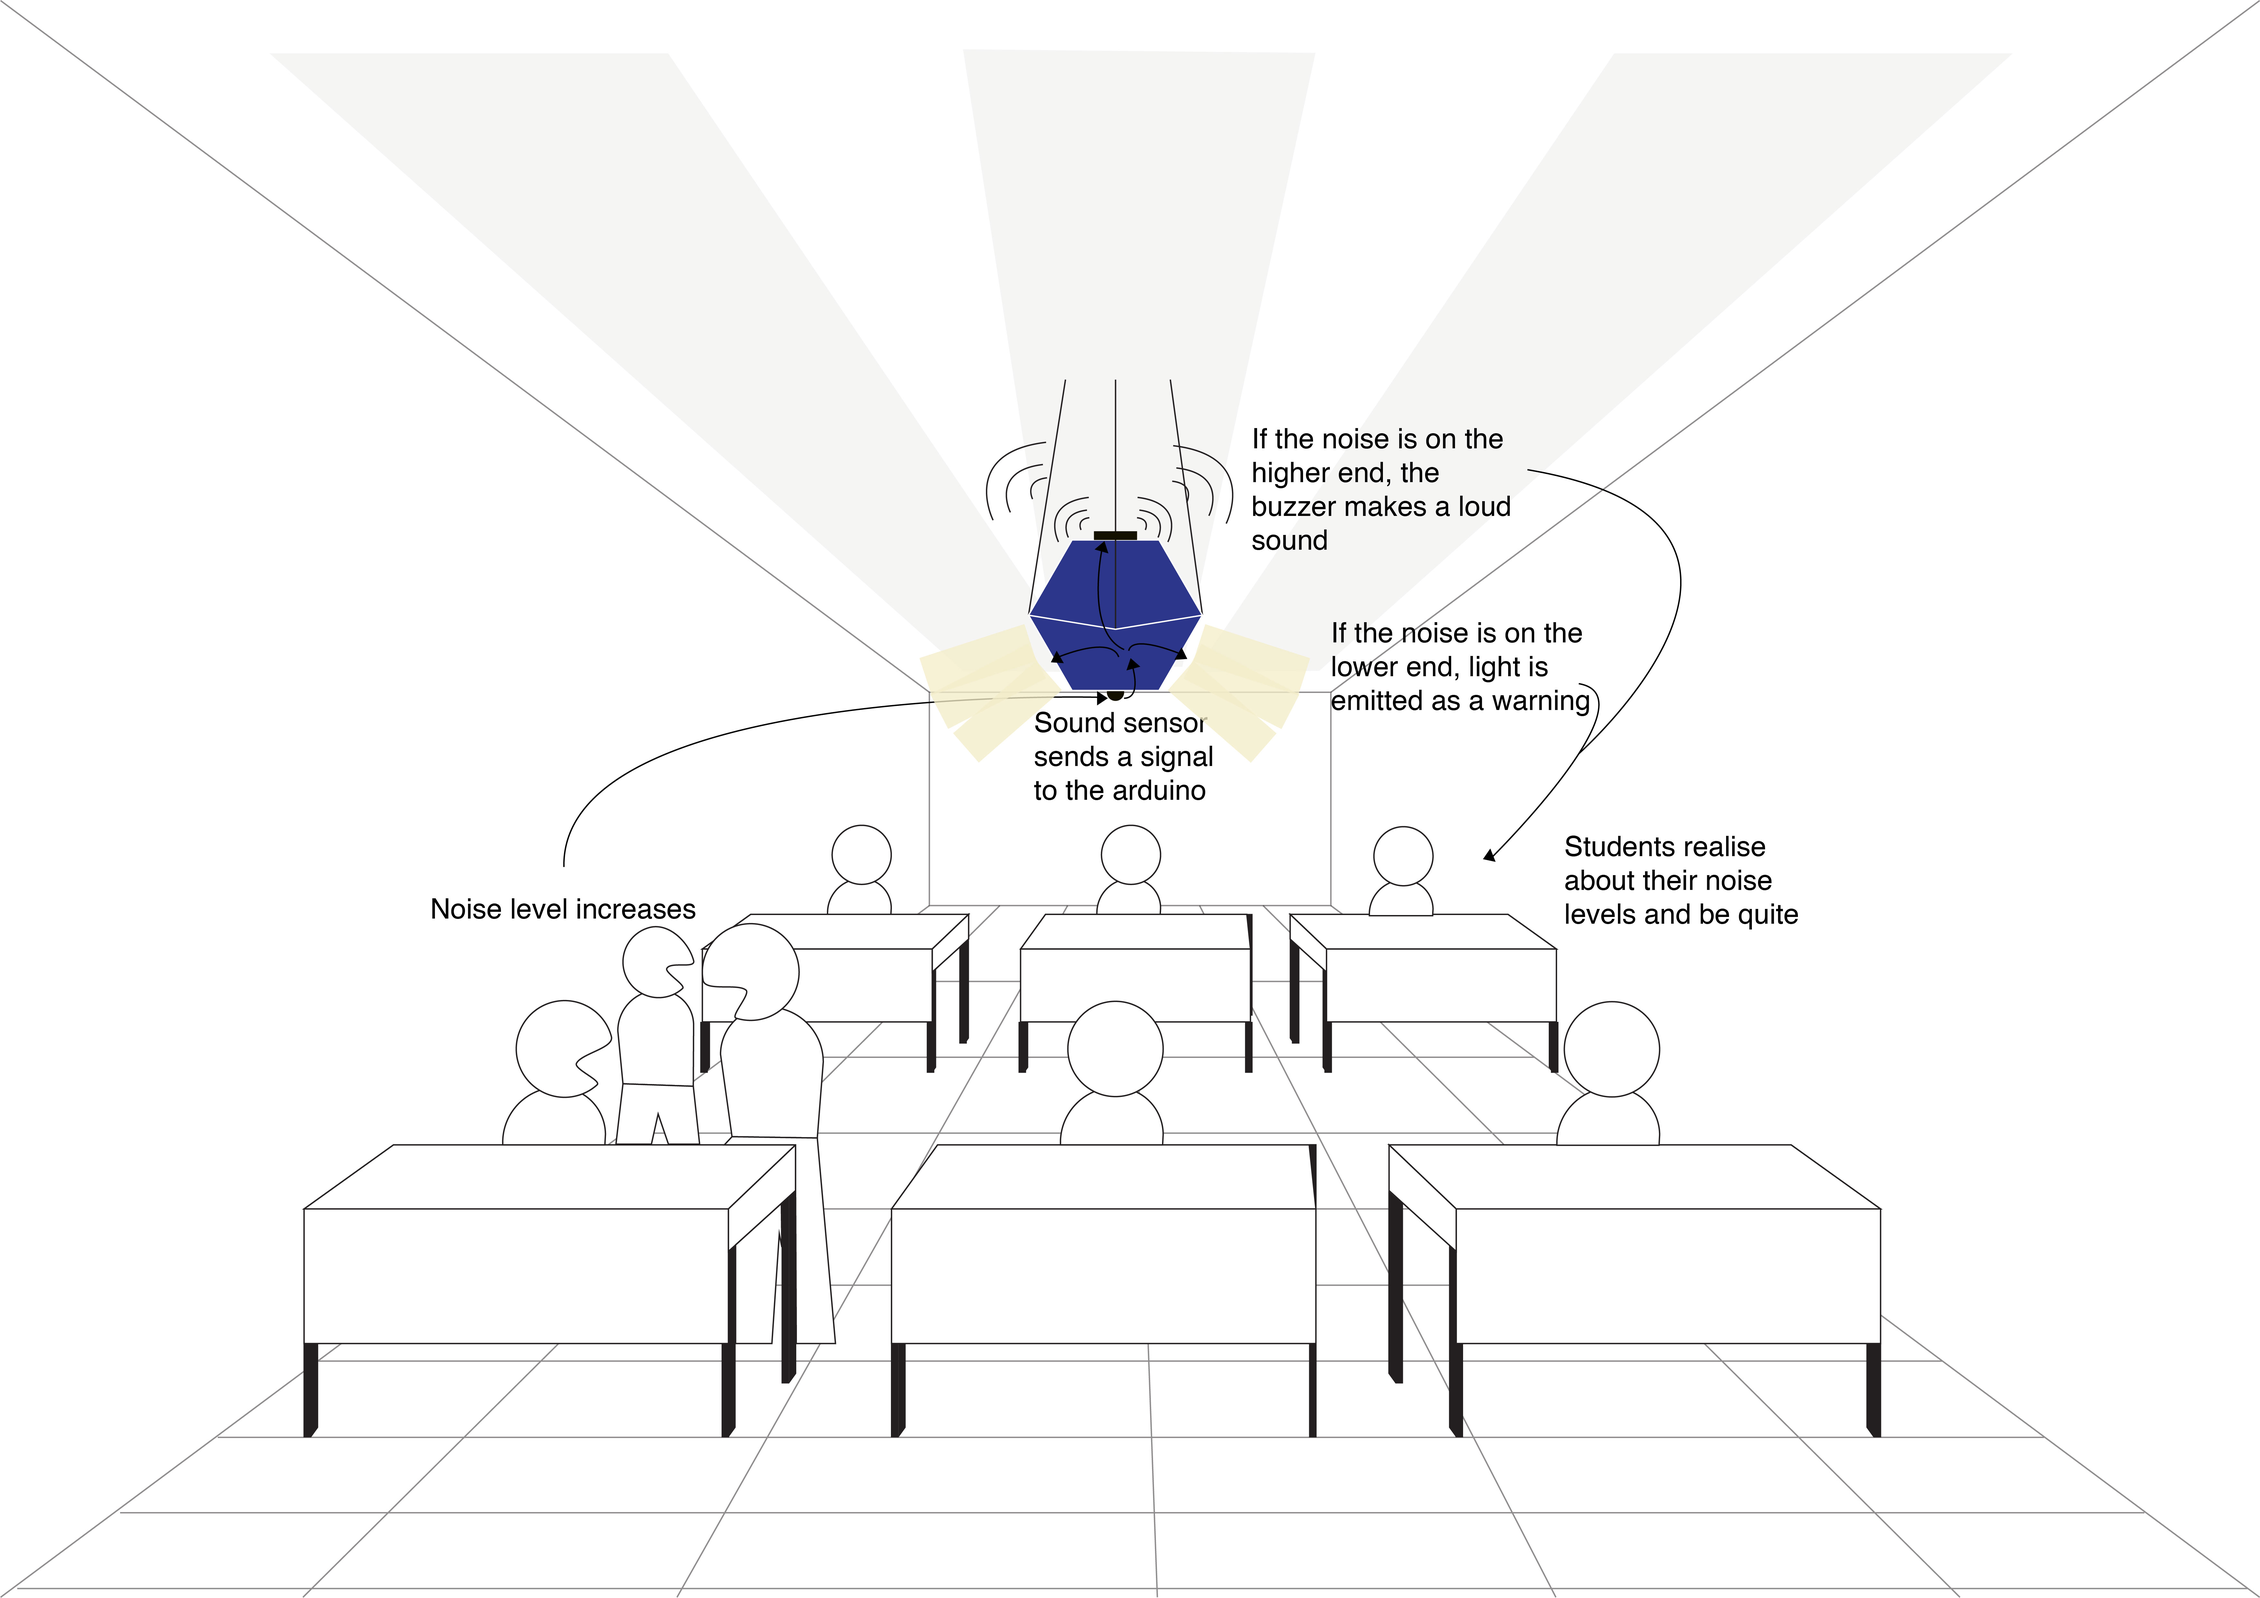
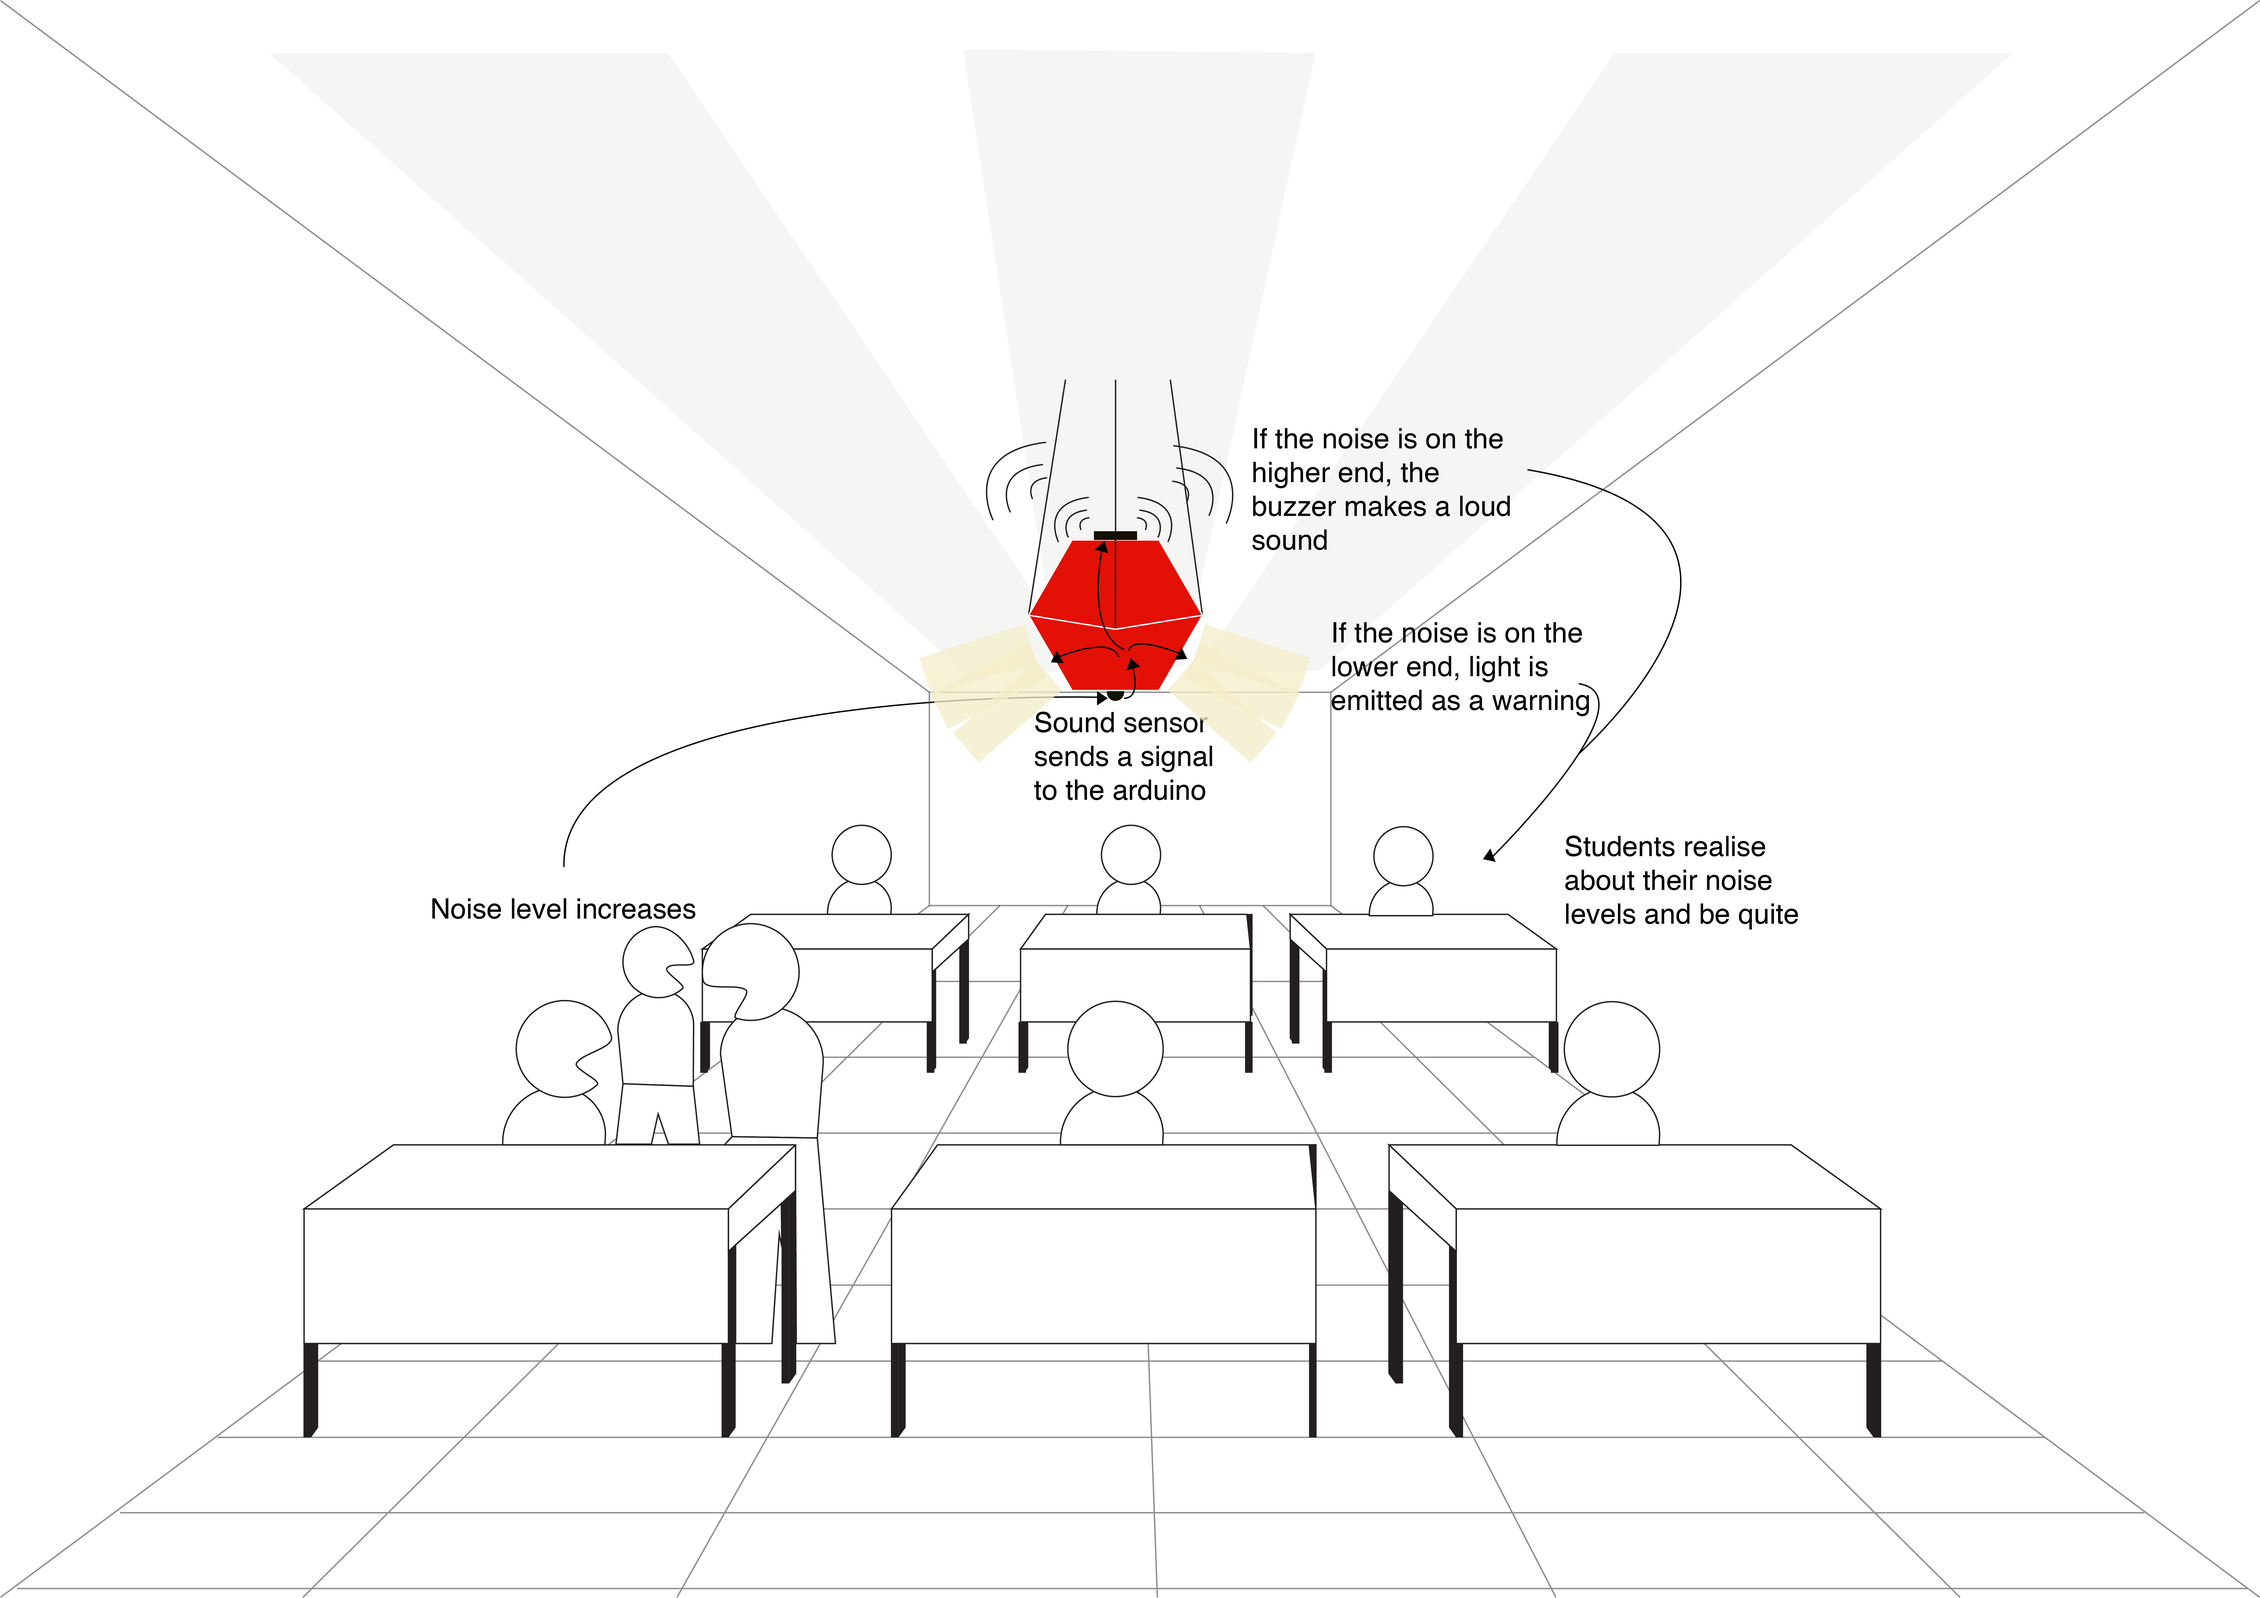
WebTemplate

Changed region(s): [[0.4368, 0.3122, 0.5304, 0.4371]]

diff --git a/elements.html b/elements.html
@@ -184,7 +184,9 @@
 		<div class="white-bg">
 			<div class="container">
 				<div class="section-top-border" id='day1' align="center">
-					<h3 class="mb-30">Day 1</h3>
+
+					<h3 class="mb-30" >Day 1</h3>
+
 					<div class="row" >
 						<!-- <div class="col-md-3"> -->
 							<!-- <img src="img/d.jpg" alt="" class="img-fluid"> -->
@@ -284,6 +286,7 @@
 <div class="section-top-border">
 	<!-- <h3 class="mb-30">Block Quotes</h3> -->
 	<div class="row">
+		<div class="col-lg-3"></div>
 		<div class="col-lg-6" >
 			<blockquote class="generic-blockquote" align="left";>4. The circuit work was continued and the following components were used for the final product.
 			<br> <br> -	Condenser microphone x3
@@ -379,13 +382,61 @@ noticed that the buzzeer noise was loud and noticable by all.   </p>
 											<img src="img/AC1.png" width="50%" height="auto"> <br> <br><br>
 											<p>2.3  Final circuit of thee system </p>
 											<img src="img/CC1.jpg" width="50%" height="auto"> <br> <br>
-											<img src="img/FinalC.jpg" width="50%" height="auto"> <br> <br>
+											<img src="img/FinalC.jpg" width="50%" height="auto"> <div class="section-top-border">
+												<!-- <h3 class="mb-30">Block Quotes</h3> -->
+												<div class="row">
+													<div class="col-lg-2"></div>
+													<div class="col-lg-8">
+														<blockquote class="generic-blockquote" align="left";> 3. The code used:<br>
+															const int microphonePin= A0; //the microphone positive terminal will connect to analog pin A0 to be read<br>
+															const int ledPin=13; //the code will flash the LED connected to pin 13<br>
+															const int buzzpin=9;<br>
+
+															int sample; //the variable that will hold the value read from the microphone each time<br>
+
+															const int threshold=520;//the microphone threshold sound level at which the LED will turn on<br>
+															const int threshold2=600;<br>
+
+															void setup() {<br>
+		  												pinMode(buzzpin, OUTPUT);<br>
+															pinMode (ledPin, OUTPUT);//sets digital pin 13 as output<br>
+															Serial.begin(9600); //sets the baud rate at 9600 so we can check the values the microphone is obtaining on the Serial Monitor<br>
+														}<br>
+
+														void loop(){<br>
+
+															sample= analogRead(microphonePin); //the arduino takes continuous readings from the microphone<br>
+															//sample = (2*sample)*(2*sample);<br>
+
+		 												Serial.println(sample);<br>
+
+														if (sample > threshold)<br>
+														{<br>
+															digitalWrite (ledPin, HIGH); //if the reading is greater than the threshold value, LED turns on<br>
+															delay (100); //LED stays on for a half a second<br>
+															digitalWrite (ledPin, LOW); //LED turns off<br>
+														}<br>
+														else{ digitalWrite(ledPin, LOW); }<br>
+
+														if (sample > threshold2)<br>
+														{<br>
+															digitalWrite (buzzpin, HIGH); //if the reading is greater than the threshold value, LED turns on<br>
+															delay (100); //LED stays on for a half a second //LED turns off<br>
+															digitalWrite (buzzpin, LOW);<br>
+														}<br>
+		 											delay(10);}<br>
+
+														</blockquote>
+													</div>
+												</div>
+											</div>
 										<!-- <br><br>	<p>It was then made using sound sensor, LEDs, buzzer, Arduino Uno and tested for its capacity. </p> -->
-										<br><br>
-										<p>3. The final form was cut using CNC machine on a black acrylic</p>
+
+										<p>4. The final form was cut using CNC machine on a black acrylic</p>
 										<img src="img/IG.jpeg" width="50%" height="auto"><br>
 
-										<p>	 <br> The business for this product was also discussed in this step </p>
+										<p>	 <br> The business for this product was also discussed in this step;
+										     </p>
 								</div>
 									</div>
 								</div>
@@ -440,11 +491,26 @@ noticed that the buzzeer noise was loud and noticable by all.   </p>
 																						<video width="100%" height="auto" controls> <source src="img/FC.mp4">
 																							</video>
 																							<p>Working of the final product; Shhh</p>
-	<p>	<br> <br>Final Conc</p>
+																							<p>	<br> <br>Final Conc</p>
 																				</div>
 
 																					</div>
 																				</div>
+
+																				<div class="section-top-border"  align="center">
+																					<h3 class="mb-30"> Pricing</h3>
+																					<div class="row" >
+																						<div align="center"  >
+																						<div class="col-md-9 mt-sm-20">
+																						</div>
+																						<img src="img/Pric.png" width="60%" height="auto"> <br>
+
+																						<br>
+																				</div>
+																					</div>
+																				</div>
+
+
 
 				<!-- <div class="section-top-border text-right">
 					<h3 class="mb-30">Right Aligned</h3>

diff --git a/index.html b/index.html
@@ -56,7 +56,7 @@
 				<div class="row fullscreen align-items-center justify-content-between" style=" height: 700px; padding-bottom: 0px;">
 					<div class="col-lg-6 col-md-7 col-sm-8">
 						<div class="banner-content">
-							<h1 style="color:#2c368a;">Shhh. . </h1>
+							<h1 style="color:#db3531;">Shhh. . </h1>
 							<p>Everything you need to be efficient while working </p>
 							<a href="https://a360.co/2U7YBLQ" class="primary-btn">3D Model<span class="lnr lnr-arrow-right"></span></a>
 						</div>
@@ -260,7 +260,7 @@
 										The product can be returned within a month in case the product dooms to be ineffectual.
 										In the later stage, the product colud be sold through wholesalers and online e-commerce platforms to
 										educational institutes. <br>
-										The product will be sold at 15% profit margin of the maanufacturing cost.
+										The product will be sold at 15% profit margin of the manufacturing cost.
 
 </h5><br><br><br>
 <!-- <h2 class="text-white">Minimum Viable Product </h2><br>
@@ -342,8 +342,7 @@
 							<p class="mb-30">We wanted a logo type which incorporateed an idea that coouldd be used as a logo mark.
 								Here, we used the name 'Shhh' and instead of the alphabet h,a finger which signfies the action was used.
 								The edge of the finger was highlighted in blue colour to signify an 'h'.
-							<br>Blue signifies trust and  healthy relationships. With our product we aim at improving
-							student-teacher relationships. This is why we use blue as our color in the logo and website.  </p>
+							<br>Red is a color that signifies energy and power. Since our product is symbolic of a higher authority demanding the students to be quiet, red represents the emotion accurately. The red colour is also often associated with 'STOP', and the main objective of 'Shhh' is stop students froom talking. Hence, we thought that this colour is best suited to represent shhh visually.  </p>
 							<!-- <a href="#" class="primary-btn">View More<span class="lnr lnr-arrow-right"></span></a> -->
 						</div>
 					</div>
@@ -416,13 +415,13 @@
 							 <a href="img/RS.jpg" class="img-pop-up"><div class="single-gallery-image" style="background: url(img/RS.jpg);"></div></a>
 					 </div>
 					 <div class="col-md-4">
-						 <a href="img/FinalC.pdf" class="img-pop-up"><div class="single-gallery-image" style="background: url(img/FinalC.jpg);"></div></a>
+						 <a href="img/G3.jpeg" class="img-pop-up"><div class="single-gallery-image" style="background: url(img/G3.jpeg);"></div></a>
 					 </div>
 					 <div class="col-md-4">
-							 <a href="img/C1.jpg" class="img-pop-up"><div class="single-gallery-image" style="background: url(img/C1.jpg);"></div></a>
+							 <a href="img/2G2.jpg" class="img-pop-up"><div class="single-gallery-image" style="background: url(img/2G2.jpg);"></div></a>
 					 </div>
 					 <div class="col-md-4">
-						 <a href="img/SK.jpg" class="img-pop-up"><div class="single-gallery-image" style="background: url(img/SK.jpg);"></div></a>
+						 <a href="img/1G1.jpg" class="img-pop-up"><div class="single-gallery-image" style="background: url(img/1G1.jpg);"></div></a>
 					 </div>
 				 </div>
 			 </div>

diff --git a/css/main.css b/css/main.css
@@ -8,12 +8,12 @@
 /* =================================== */
 ::-moz-selection {
   /* Code for Firefox */
-  background-color: #2c368a;
+  background-color: #db3531;
   color: #fff;
 }
 
 ::selection {
-  background-color: #2c368a;
+  background-color: #db3531;
   color: #fff;
 }
 
@@ -902,13 +902,13 @@ h1, h2, h3, h4, h5, h6 {
 
 .genric-btn.primary {
   color: #fff;
-  background: #2c368a;
+  background: #db3531;
   border: 1px solid transparent;
 }
 
 .genric-btn.primary:hover {
-  color: #2c368a;
-  border: 1px solid #2c368a;
+  color: #db3531;
+  border: 1px solid #db3531;
   background: #fff;
 }
 
@@ -1056,7 +1056,7 @@ h1, h2, h3, h4, h5, h6 {
 .generic-blockquote {
   padding: 30px 50px 30px 30px;
   background: #f9f9ff;
-  border-left: 2px solid #2c368a;
+  border-left: 2px solid #db3531;
 }
 
 @media (max-width: 767px) {
@@ -1935,7 +1935,7 @@ nav a {
 }
 
 nav a:hover {
-  color: #2c368a;
+  color: #db3531;
 }
 
 .white-menubar .menu-bar span {
@@ -1994,7 +1994,7 @@ nav a:hover {
   padding-right: 60px;
   border-radius: 25px;
   background: transparent;
-  border: 1px solid #2c368a;
+  border: 1px solid #db3531;
   color: #222222;
   display: inline-block;
   font-weight: 500;
@@ -2025,7 +2025,7 @@ nav a:hover {
 }
 
 .primary-btn:hover {
-  background: #2c368a;
+  background: #db3531;
   color: #fff;
 }
 
@@ -2045,11 +2045,11 @@ nav a:hover {
 
 .primary-btn.white:hover {
   background: #fff;
-  color: #2c368a;
+  color: #db3531;
 }
 
 .primary-btn.white:hover span {
-  color: #2c368a;
+  color: #db3531;
 }
 
 .banner-area {
@@ -2109,7 +2109,7 @@ nav a:hover {
 }
 
 .generic-banner.element-banner {
-  background: #2c368a;
+  background: #db3531;
 }
 
 .generic-banner .height {
@@ -2150,7 +2150,7 @@ nav a:hover {
 }
 
 .studio-area .overlay-bg {
-  background: #2c368a;
+  background: #db3531;
 }
 
 .studio-area .studio-thumb {
@@ -2260,7 +2260,7 @@ nav a:hover {
 }
 
 .achivement-area .single-achivement:hover .achivement-link {
-  background: #2c368a;
+  background: #db3531;
 }
 
 .achivement-area .single-achivement:hover .achivement-link i {
@@ -2273,7 +2273,7 @@ nav a:hover {
 }
 
 .video-area .overlay-bg {
-  background: #2c368a;
+  background: #db3531;
 }
 
 .video-area .video-content {
@@ -2308,7 +2308,7 @@ nav a:hover {
 }
 
 .single-progressbar .progress-bar {
-  background: #2c368a;
+  background: #db3531;
   height: 5px;
   line-height: 5px;
 }
@@ -2319,7 +2319,7 @@ nav a:hover {
 }
 
 .carousel-area .overlay-bg {
-  background: #2c368a;
+  background: #db3531;
 }
 
 .active-bottle-carousel {
@@ -2440,7 +2440,7 @@ nav a:hover {
   top: 50%;
   transform: translateY(-50%);
   right: 5px;
-  background: #2c368a;
+  background: #db3531;
   color: #fff;
 }
 
@@ -2486,7 +2486,7 @@ nav a:hover {
 }
 
 .footer-widget-area .overlay-bg {
-  background: #2c368a;
+  background: #db3531;
 }
 
 .footer-widget-area .container {
@@ -2581,7 +2581,7 @@ nav a:hover {
 }
 
 .footer-social a:hover i {
-  color: #2c368a;
+  color: #db3531;
 }
 
 .about-generic-area {

diff --git a/generic.html b/generic.html
@@ -65,7 +65,7 @@
 								    </p>
 										<p> This was just a project for our Curriculum but we would like for this to be productized and sold to help more schools, colleges like us and if possible in other places like offices too in future.
 										</p>
-
+ 									<!-- <img src="img/GP.JPG" -->
 						</div>
 					</div>
 				</div>
@@ -191,7 +191,7 @@
 								<h6> Rajarshi Dasgupta</h6>
 							<p>
 								<a href="mailto:rajarshi.dasgupta02@nmims.edu.in">rajarshi.dasgupta02<br>@nmims.edu.in</a> <br>
-
+								<a href="mailto:spectrum701.myportfolio.com">spectrum701.myportfolio.com</a> <br> <br>
 
 							<!-- <h6>Visit Our Office</h6>
 							<p>56/8, bir uttam qazi nuruzzaman road, west panthapath, kalabagan, Dhanmondi, Dhaka - 1205</p> -->
@@ -220,8 +220,8 @@
 						<div class="single-address text-center">
 							<h6>Anshika Lohia</h6>
 							<p>	<a href="mailto:anshika.lohia25@nmims.edu.in">anshika.lohia25@nmims.edu.in</a></p>
-								<!-- <a href="mailto:demo@gmail.com">emergencysupp@colorlib.com</a> <br>
-								<a href="mailto:demo@gmail.com">extremesupp@colorlib.com</a></p> -->
+									<p>	<a href="mailto:indd.adobe.com/view/75739fb6-acc9-445f-9d8e-fb460b60612fn">Anshika Lohia's Portfolio</a></p>
+								<!-- <a href="mailto:demo@gmail.com">extremesupp@colorlib.com</a></p> -->
 
 								<br> <br>
 						</div>
